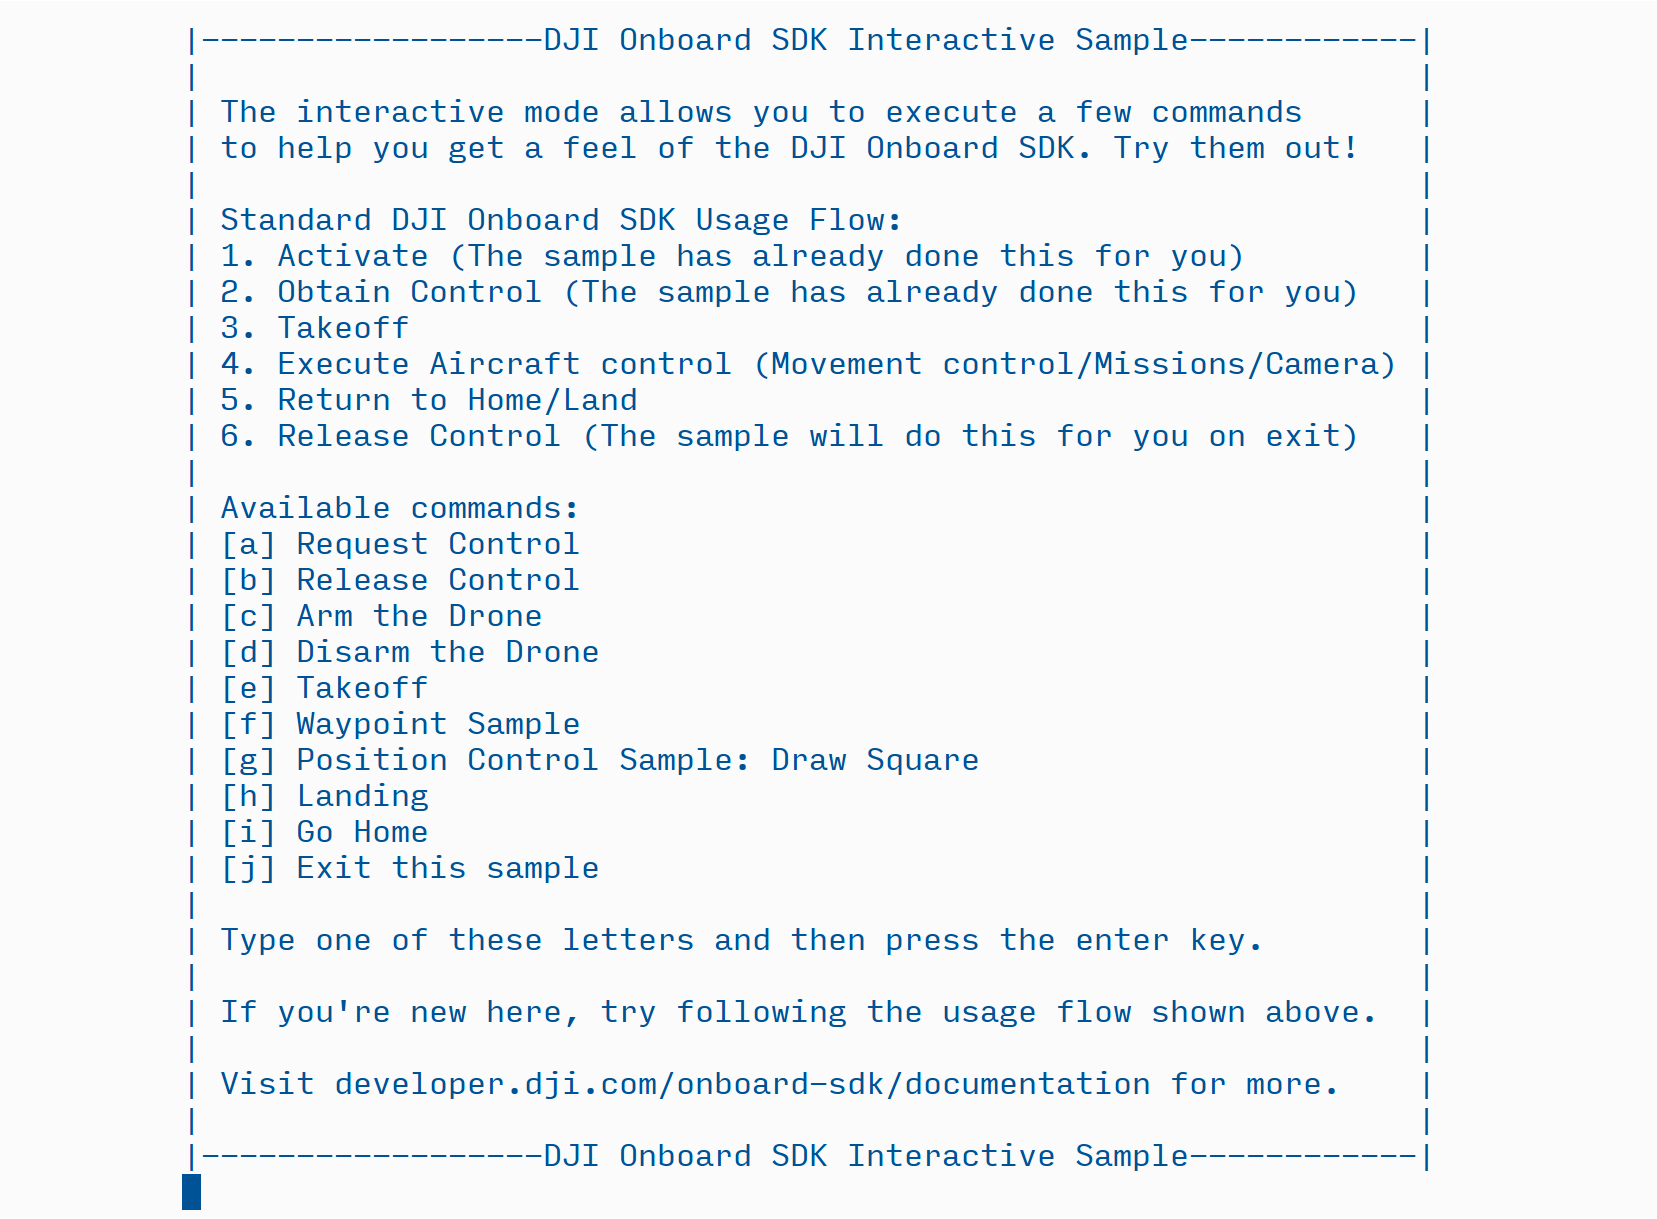
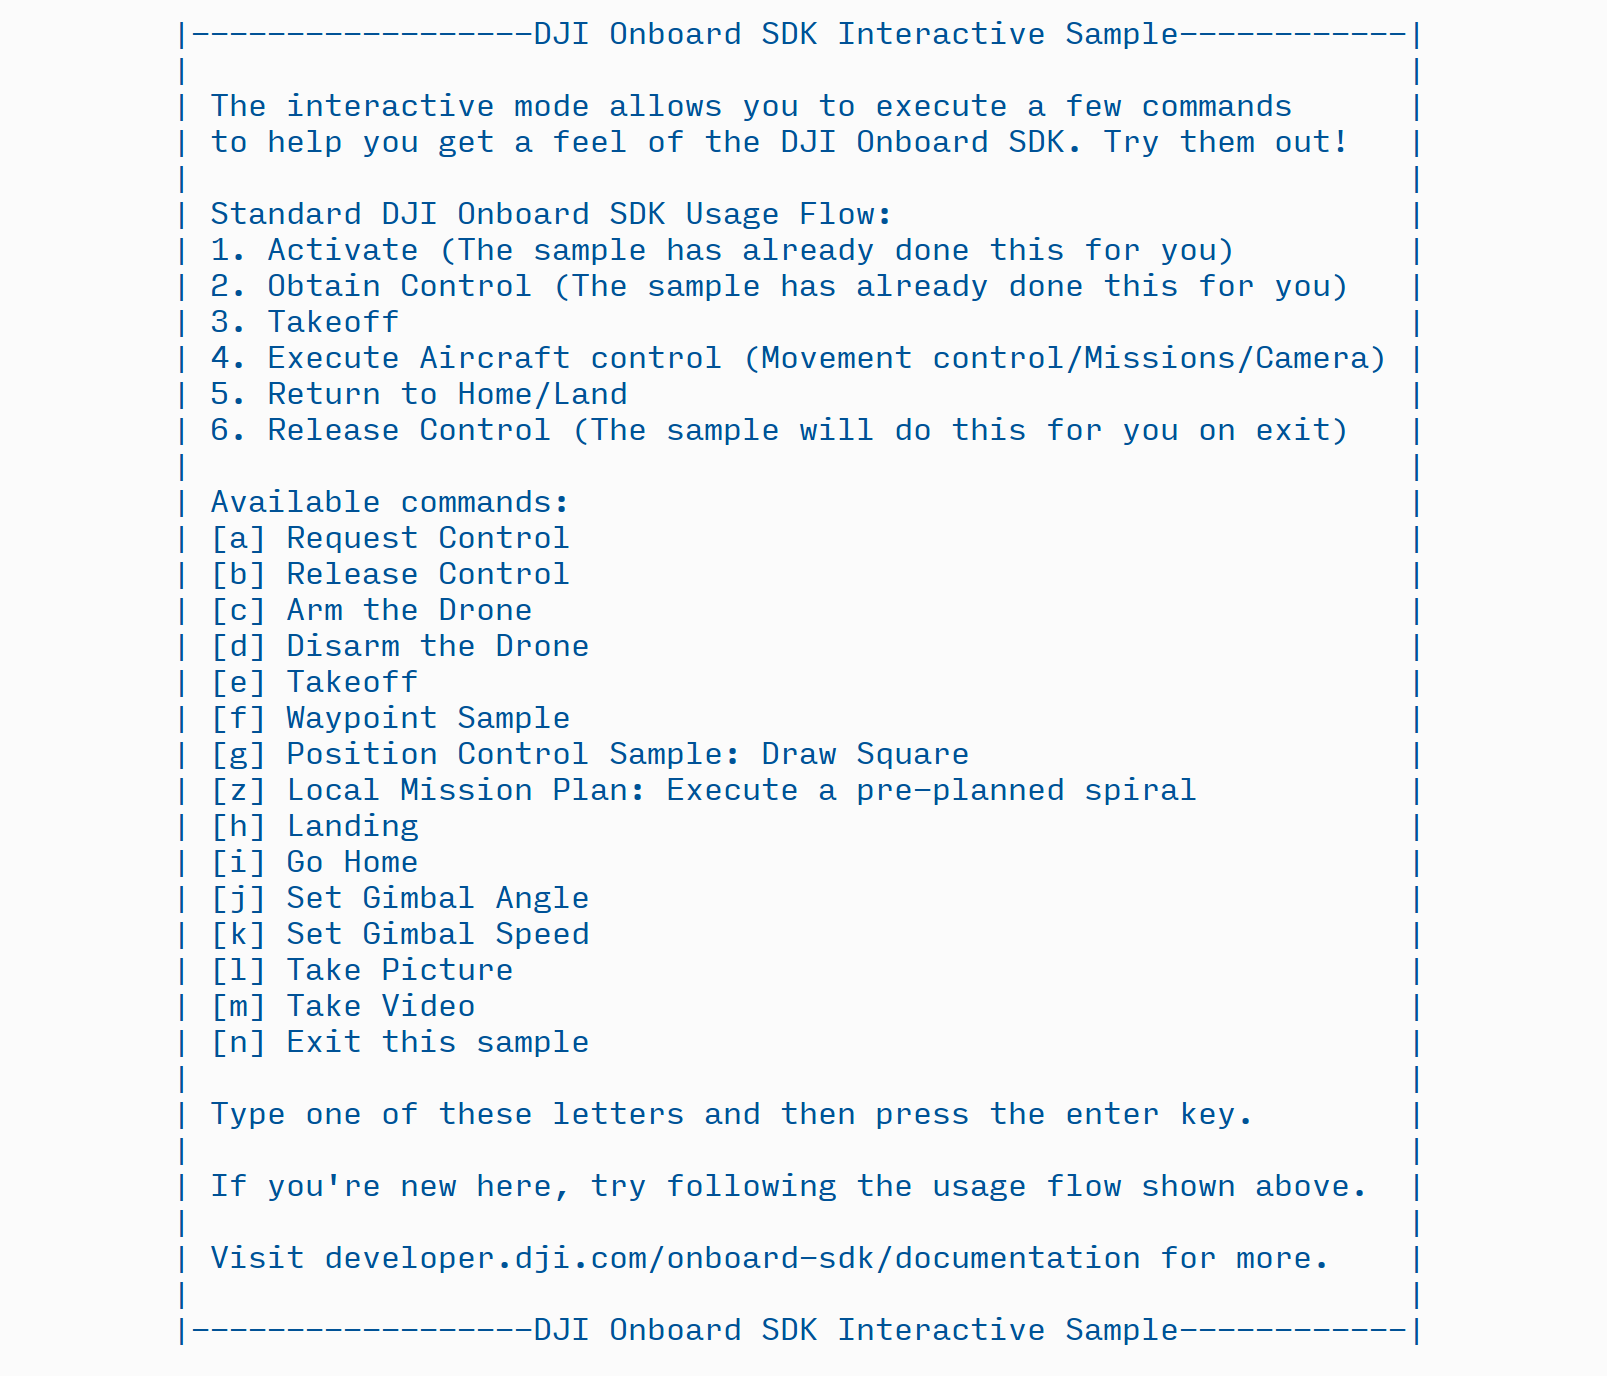
Updated Linux sample and MOS app pages

Changed region(s): [[0.0933, 0.0, 0.8712, 0.9975], [0.5289, 0.6235, 0.5912, 0.6546]]

diff --git a/source/github-platform-docs/Linux/README.md b/source/github-platform-docs/Linux/README.md
@@ -1,11 +1,11 @@
 ---
 title: DJI Onboard SDK C++ Linux Example
 version: v3.1.9
-date: 2016-08-05
+date: 2016-10-14
 github: https://github.com/dji-sdk/Onboard-SDK/tree/3.1/sample/Linux
 ---
 
-  > All-new Non-Blocking calls for DJI Onboard SDK v3.1.9!
+  > All-new Non-Blocking calls, LiDAR integration, Camera samples and Precision Trajectories for DJI Onboard SDK v3.1.9!
 
 ## Introduction
 
@@ -24,6 +24,8 @@ The following user-facing functionality is available in the Linux sample:
 * Compatible with DJI iOS Mobile OSDK App
 * Sample Waypoint Mission implementation
 * Sample Position Control implementation
+* Sample Gimbal and Camera Control implementation
+* Precision Trajectory Mission Plans
 
 This sample also implements an optional LiDAR Logging example that uses the LiDAR_APIs_LIB library documented [here](../../sensor-integration-guides/velodyne/readme.html). This example gives you the option to log LiDAR data from a Velodyne PUCK or a Simulator to log data in pcap format and LAS format. 
 
@@ -127,7 +129,7 @@ As the UI tells us, the sample has already activated and taken control on our be
 
 ![Interactive_2](../../images/Linux/Interactive_2.png)
 
-Once you have taken off, you may try some of the flight control functionality. After you have landed, type the exit letter - `j` - to let the sample clean up before exiting.
+Once you have taken off, you may try some of the flight control functionality. After you have landed, type the exit letter - `n` - to let the sample clean up before exiting.
 
 ![Interactive_3](../../images/Linux/Interactive_3.png)
 
@@ -150,7 +152,7 @@ By default, the programmatic mode starts with automated, monitored takeoff (chec
 
 ![Programmatic_code](../../images/Linux/programmatic-code.png)   
 
-Line `97` is an example of an application layer function called within the programmatic mode. 
+Line `108` is an example of an application layer function called within the programmatic mode. 
 
 The result of this code is something like this:
 
@@ -190,5 +192,3 @@ The output looks like this (takeoff - draw a square - landing):
 
 ![DrawSqr_Simulator](../../images/Linux/Square.png)
 
-
-> A3 support is currently in beta. Please file issues on the github repo if you find any!

diff --git a/source/github-platform-docs/MobileOnboardSDK/Mobile-OSDK.md b/source/github-platform-docs/MobileOnboardSDK/Mobile-OSDK.md
@@ -1,10 +1,11 @@
 ---
 title: Mobile Onboard SDK communication using Data Transparent Transmission
-version: 3.1.8
-date: 2016-08-05
+version: 3.1.9
+date: 2016-10-14
 keywords: [iOS Mobile Onboard SDK app]
 ---
 
+> New for 3.1.9: Gimbal sample and Precision Trajectory support!
 ## Introduction
 
 The Mobile Onboard SDK communication uses the Data Transparent Transmission protocol. As mentioned in the [Data Transparent Transmission](../../introduction/data-transparent-transmission.html) section, the Data Transparent Transmission was developed to combine the benefits of Mobile and Onboard SDK APIs by establishing a connection between a Mobile Device and an OES. Via the Data Transparent Transmission, developers are able to send any data from their Mobile Device to OES and vice versa. 
@@ -45,7 +46,9 @@ The iOS app can be side loaded to your phone using Xcode on a Macintosh system. 
 
 ### Linux
 
-You can enable mobile command input by running './onboardsdk -mobile'. The support commands are: 
+You can enable mobile command input by running `./onboardsdk_sample_linux -mobile` (and optionally another argument `path_to_trajectory_json` if you want to execute a pre-planned precision spiral). 
+
+The supported commands are: 
 
 * Obtain Control
 * Release Control 
@@ -54,8 +57,10 @@ You can enable mobile command input by running './onboardsdk -mobile'. The suppo
 * Arm
 * Disarm 
 * Go Home
+* Gimbal Control Demo
 * Draw Square Demo 
-* Waypoint Test 
+* Waypoint Mission Demo
+* Precision Trajectory Execution
 
 Linux supports ACK returned from the Flight Controller. ACK returned will be displayed on the Mobile app. 
 
@@ -99,7 +104,3 @@ STM32 platform responds to mobile commands by default. **When not in simulator m
 * Local Navigation Test
 
 STM32 supports ACK returned from the Flight Controller. ACK returned will be displayed on the Mobile app. 
-
-
-
-
